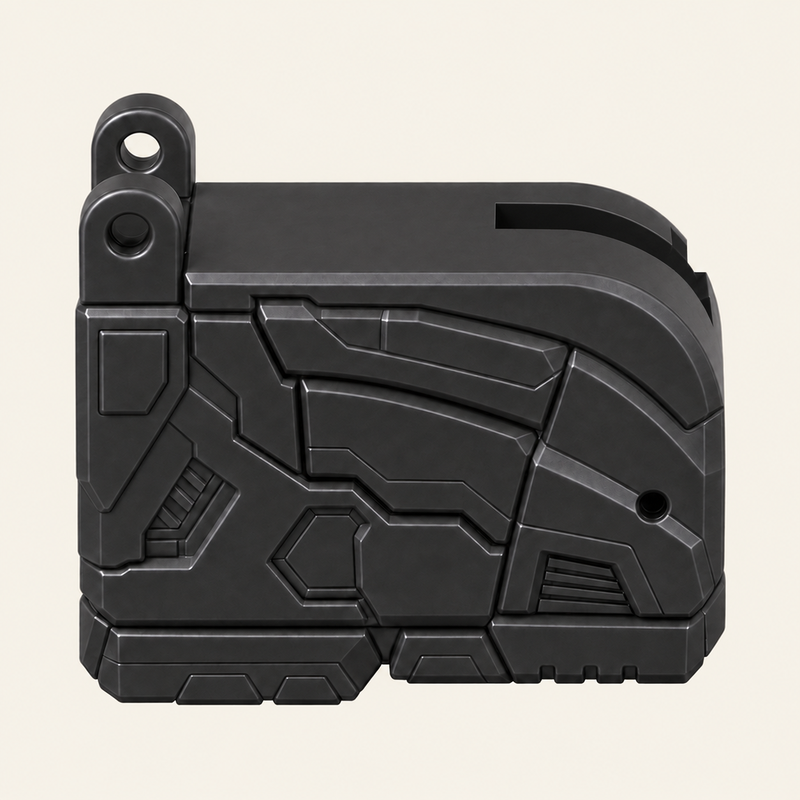
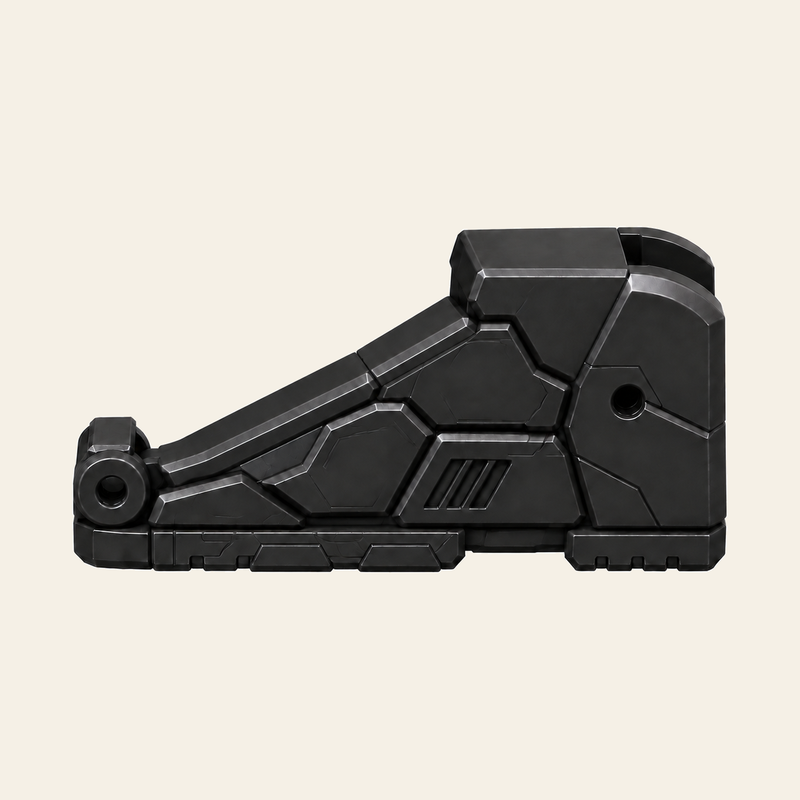
toys-spec/racer-mecha: wedge boot with the rear-wing plate on its toe slope, longer wing plate, detailed fist

diff --git a/toys-spec/racer-mecha/model.py b/toys-spec/racer-mecha/model.py
@@ -16,7 +16,7 @@ pair itself (arm shell / torso, thigh / torso), which the v02 model skipped.
     uv run --with shapely --with numpy python model.py > checks.txt
 """
 import math, itertools
-from shapely.geometry import box as sbox, Point
+from shapely.geometry import box as sbox, Point, Polygon
 from shapely.affinity import rotate, translate
 from shapely.ops import unary_union
 
@@ -82,16 +82,29 @@ P["thigh#1"] = (B(7.5, 25.5, -12, 7, 108.5, 135.75)
 P["shin#1"] = (B(7, 34.5, -12.5, 9.5, 32, 54.25) + B(7.5, 29.5, -12.5, 9.5, 54.25, 88.75) + B(10.5, 22.5, -9, 4, 88.75, 114.1) + B(10.5, 22.5, -7.5, 2.5, 114.1, 116)   # post, top edges bevelled 1.5
                + B(7.5, 25.5, -14.25, -12.5, 88.75, 116) + CX(29.5, 34.5, 2.5, 76, 4.75)
                + B(14, 28, -0.25, 9.25, 14.75, 32) + CX(14, 28, 4.5, 14.75, 4.75))
-# ---- boot: long foot set outboard of the shin, X 8 to 40 (16 apart); slot for the ankle tongue
-P["boot#1"] = (B(8, 40, -36.25, 4.5, 0, 31.5) + B(8, 40, 4.5, 13.75, 0, 14.75)
-               + CX(8, 40, 4.5, 14.75, 9.25)                              # heel top rounded R9.25 about the ankle
-               + B(8, 11.5, -36.25, -32, 31.5, 40) + CX(8, 11.5, -32, 35.75, 4.25)
-               + B(36.5, 40, -36.25, -32, 31.5, 40) + CX(36.5, 40, -32, 35.75, 4.25)   # wing-hinge lugs
-               + CUT(11.5, 36.5, -36.25, -16.5, 31, 31.5) + CUT(8, 40, -27.75, -16.5, 31, 31.5)   # instep 0.5 under the wing
-               + CUT(13.5, 28.5, -0.75, 14.25, 9.5, 32))                  # tongue slot
-# ---- rear wing half: knuckle between the toe lugs, plate on the instep, blade from 0.75 off the centre line to the boot's outer side
-P["wing#1"] = (CX(12, 36, -32, 35.75, 4.25) + B(12, 36, -32, -17, 31.5, 35)
-               + B(0.75, 40, -20.5, -17, 31.5, 43.5))
+# ---- v5 boot (owner 2026-10-17, "cách 2"): a wedge as in the overall image. The rear-wing plate lies on the toe slope,
+#      its hinge low at the toe; the car's rear wing keeps its height (hinge Z + plate length = 50.75).
+ZH, TH = 12.0, 30.0                      # wing hinge height and the plate's slope, degrees
+LP = 50.75 - ZH                          # hinge centre to the blade's back face, along the plate
+_c, _s = math.cos(math.radians(TH)), math.sin(math.radians(TH))
+def _w(y, z): return (y * _c - z * _s, y * _s + z * _c)      # flat wing frame -> robot pose, relative to the hinge
+_zc = (32 - ZH - LP * _s) / _c           # the blade leans forward; its back face at the cuff's bottom (Z 32)
+YH = -46.5                               # contract value; the blade's back face clears the cuff's front-bottom edge
+YH_MAX = -12.5 - 0.5 / _c - _w(LP, _zc)[0] # the hinge furthest back that keeps 0.5 square to that face
+def _H(y, z): a = _w(y, z); return (YH + a[0], ZH + a[1])
+def POLY(x0, x1, pts): return [("polyx", x0, x1, tuple(pts))]
+def CUTPOLY(x0, x1, pts): return [("cutpolyx", x0, x1, tuple(pts))]
+# blade back face offset 0.5, up to the boot top Z 31.5
+_k = (31.5 - _H(LP + 0.5, -4.75)[1]) / _c
+_heel = [(4.5 + 16.75 * math.cos(math.radians(a)), 14.75 + 16.75 * math.sin(math.radians(a))) for a in range(90, 56, -4)] + [(13.75, 28.71)]
+BOOT_PROFILE = ([(YH - 4.25, 0), (13.75, 0)] + _heel[::-1] + [(4.5, 31.5), _H(LP + 0.5, -4.75 + _k), _H(LP + 0.5, -4.75), _H(0, -4.75), (YH - 4.25, ZH)])
+P["boot#1"] = (POLY(8, 40, BOOT_PROFILE) + CX(8, 11.5, YH, ZH, 4.25) + CX(36.5, 40, YH, ZH, 4.25)   # lugs rounded about the hinge
+               + CUTX(11.5, 36.5, YH, ZH, 4.75)                                                    # knuckle clearance
+               + CUT(13.5, 28.5, -0.75, 14.25, 9.5, 32))                                          # tongue slot
+# ---- rear wing half: knuckle between the toe lugs, plate on the slope, blade square to the plate
+P["wing#1"] = (CX(12, 36, YH, ZH, 4.25)
+               + POLY(12, 36, [_H(0, -4.25), _H(LP, -4.25), _H(LP, -0.75), _H(0, -0.75)])
+               + POLY(0.75, 40, [_H(LP - 3.5, -4.25), _H(LP, -4.25), _H(LP, 7.75), _H(LP - 3.5, 7.75)]))
 P["front-wheel#1"] = CX(43.5, 59.5, 3.5, 228.25, 19.5)
 P["rear-wheel#1"] = CX(35, 47, 2.5, 76, 20.5)
 
@@ -107,6 +120,8 @@ def section(prims, x):
             elif p[0] == "cylx": polys.append(Point(p[3], p[4]).buffer(p[5], 48))
             elif p[0] == "cut": cuts.append(sbox(p[3], p[5], p[4], p[6]))
             elif p[0] == "cutx": cuts.append(Point(p[3], p[4]).buffer(p[5], 48))
+            elif p[0] == "polyx": polys.append(Polygon(p[3]))
+            elif p[0] == "cutpolyx": cuts.append(Polygon(p[3]))
     return unary_union(polys).difference(unary_union(cuts))
 
 def xr(prims):
@@ -115,7 +130,7 @@ def xr(prims):
 
 # ---- the transformation, robot -> car; ("t", (dy, dz)), ("r", (y, z), deg), ("rA"/"rB", None, deg)
 ANKLE = (4.5, 14.75)
-HINGE_A = (-32, 35.75)     # boot frame, robot pose
+HINGE_A = (YH, ZH)         # boot frame, robot pose
 SLIDE = 19.25
 HEAD = 26.5
 STAGES = [
@@ -124,7 +139,7 @@ STAGES = [
     ("forearms fold 180 into the shells", {f"forearm{s}": [("r", (-2.5, 140), 180)] for s in ("#1", "#2")}),
     ("boots fold 90 at the ankles", {f"{p}{s}": [("r", ANKLE, 90)] for s in ("#1", "#2") for p in ("boot", "wing")}),
     ("shins slide 19.25 up into the thighs", {f"{p}{s}": [("t", (0, SLIDE))] for s in ("#1", "#2") for p in ("shin", "boot", "wing", "rear-wheel")}),
-    ("rear-wing halves stand 90 on hinge A", {f"wing{s}": [("rA", None, 90)] for s in ("#1", "#2")}),
+    ("rear-wing halves stand on hinge A", {f"wing{s}": [("rA", None, 90 - TH)] for s in ("#1", "#2")}),
 ]
 
 def rot_pt(pt, origin, deg):
@@ -271,7 +286,8 @@ def report_balance():
             s = section(P[n], lo + (hi - lo) * (i + 0.5) / 12)
             if not s.is_empty:
                 a = s.area * (hi - lo) / 12; m += a; cy += a * s.centroid.x
-    print(f"Robot balance: centre of mass Y {cy / m:.1f}; boots stand on Y -36.25 (toe) .. 13.75 (heel)")
+    print(f"Robot balance: centre of mass Y {cy / m:.1f}; boots stand on Y {YH - 4.25:.2f} (toe) .. 13.75 (heel)")
+    print(f"Hinge Y may be at most {YH_MAX:.2f}. Wing hinge Y {YH:.2f}, Z {ZH}; plate {LP} at {TH} deg; blade top Z {_H(LP, 7.75)[1]:.2f}, foot Z {_H(LP, -4.25)[1]:.2f}; boot length {13.75 - YH + 4.25:.2f}")
 
 if __name__ == "__main__":
     report_static()

diff --git a/toys-spec/racer-mecha/CONTRACT.md b/toys-spec/racer-mecha/CONTRACT.md
@@ -2,7 +2,7 @@
 
 A heroic robot in detailed toy armour, 250 mm to the top of its helmet, that
 transforms by hand, with no part removed, into an open-wheel Formula racing
-car 346.2 mm long on four wheels: the car stood up on its tail and opened out.
+car 360.75 mm long on four wheels: the car stood up on its tail and opened out.
 
 Inventor: `rowan-vale`.
 
@@ -22,7 +22,7 @@ figure's left, front is -Y, Z up from the desk; the figure is centred on X 0.
 **Display Pose: robot.** Standing upright on both boots, arms hanging
 straight at the sides, legs straight and drawn out to full length, head
 raised, nose lying down the back, wing halves folded on the toes. Envelope
-126 (X) x 68.75 (Y, -36.25 to 32.5) x 250 (Z). Landmarks: boots 0 to 31.5,
+126 (X) x 83.25 (Y, -50.75 to 32.5) x 250 (Z). Landmarks: boots 0 to 31.5,
 ankle pins 14.75, shin cuff 32 to 54.25, shin block 54.25 to 88.75, rear wheel
 axles 76, knee guard over the slide post 88.75 to 116, thigh 108.5 to 138.75,
 hip pins 145, torso 141.25 to 229.5, halo 170 to 216.25 round the cockpit
@@ -32,7 +32,7 @@ hip pins 145, torso 141.25 to 229.5, halo 170 to 216.25 round the cockpit
 to 145.
 
 **Car pose.** In assembly
-coordinates the car stands on its tail: its length runs along Z (-10.2 to
+coordinates the car stands on its tail: its length runs along Z (-24.75 to
 336), its floor faces +Y and its top -Y; laid down on its floor it is the
 car R03 and R05 give.
 
@@ -124,10 +124,11 @@ shoulder bore runs along X into the top block from its inboard face at Y
 
 **Forearm.** A black closed fist 20 wide (X 40 to 60) x 15 deep (Y -10 to
 5), Z 102.75 to 140, ending at the top in a wrist knuckle rounded R7.5 about
-the elbow axis Y -2.5, Z 140; under the knuckle a wrist guard down to Z 120,
-then four finger blocks split by three vertical grooves and crossed by one
-knuckle groove, and a thumb block on the inboard side. Prints
-on its outboard face.
+the elbow axis Y -2.5, Z 140; under the knuckle a wrist guard down to Z 120
+with a raised V plate 0.75 proud. Below it, across the front, a thumb 2.8
+wide wrapping the inboard corner and four fingers 3.5 wide, split by grooves
+0.8 wide and 2 deep; each finger crossed by a knuckle groove at Z 111, its tip
+rounded R2 at the bottom. Prints on its outboard face.
 
 **Thigh.** A sleeve 18 wide (X 7.5 to 25.5) x 19 deep (Y -12 to 7), Z 108.5
 to 135.75, open at the bottom: its cavity X 10 to 23, Y -9.5 to 4.5, up to Z
@@ -156,23 +157,27 @@ the rear wheel axis Y 2.5, Z 76. Below the cuff the ankle tongue, 14 wide (X
 14 to 28) x 9.5 deep (Y -0.25 to 9.25), down to a round end R4.75 about the
 ankle axis Y 4.5, Z 14.75. Prints upside down on the post's top face (Z 116).
 
-**Boot.** A long foot 32 wide (X 8 to 40), set outboard of the shin, Y
--36.25 to 13.75, Z 0 to 31.5, pointing forward (R10). Behind the ankle axis its top is
-rounded R9.25 about the axis (Y 4.5, Z 14.75) down to the heel face at Y
-13.75. A slot for the shin's tongue, X 13.5 to 28.5, Y -0.75 to the heel, down
-to Z 9.5, open at the top and the heel. The ankle bores run along X through
-the slot's side walls on the axis. The instep in front of the shin is a flat
-at Z 31 from the toe to Y -16.5, where the wing lies; at the toe two lugs 3.5
-thick (X 8 to 11.5 and 36.5 to 40), Y -36.25 to -32, rise to Z 40, rounded
-R4.25 about the wing hinge axis Y -32, Z 35.75. A sole band 4 tall with tread
+**Boot.** A long wedge foot 32 wide (X 8 to 40), set outboard of the shin, Y
+-50.75 to 13.75, Z 0 to 31.5, pointing forward (R10). Behind the ankle axis its top is
+rounded R16.75 about the axis (Y 4.5, Z 14.75) down to the heel face at Y
+13.75, Z 28.7. In front of the axis the top is flat at Z 31.5 to Y -12.45;
+a face undercut 30 degrees from vertical drops back to Y -10.1, Z 27.5
+behind the blade, and from there the toe slope, 0.5 under the wing plate,
+falls forward at 30 degrees to Y -44.1, Z 7.9. The toe
+face at Y -50.75 is 12 tall. At the toe two lugs 3.5 thick (X 8 to 11.5 and
+36.5 to 40) are rounded R4.25 about the wing hinge axis Y -46.5, Z 12 and rise
+to Z 16.25; between them an R4.75 clearance round the knuckle. A slot for the shin's tongue, X 13.5 to 28.5, Y -0.75 to the heel,
+down to Z 9.5, open at the top and the heel. The ankle bores run along X
+through the slot's side walls on the axis. A sole band 4 tall with tread
 notches round it; a toe plate on the toe face. Prints on its sole.
 
-**Wing.** One half of the rear wing, a single part. A knuckle Ø8.5 x 24 (X 12
-to 36) on the wing hinge axis (Y -32, Z 35.75); a plate 24 wide (X 12 to 36) x
-3.5 thick (Z 31.5 to 35) running from the knuckle to Y -17; and at the
-plate's far end the blade, 39.25 wide (X 0.75 to 40) x 3.5 (Y -20.5 to -17) x
-12 tall (Z 31.5 to 43.5), standing up 4.5 in front of the shin and reaching
-inboard past the boot to 1.5 from the other blade. Its outer 3 (X 37 to 40) is
+**Wing.** One rear-wing half. A knuckle Ø8.5 x 24 (X 12
+to 36) on the wing hinge axis (Y -46.5, Z 12); a plate 24 wide (X 12 to 36) x
+3.5 thick, its underside tangent to the knuckle, running 38.75 from the axis
+to the blade's back face; and at the plate's far end the blade, 39.25 wide (X
+0.75 to 40) x 3.5 x 12 tall, square to the plate on its top side and reaching
+inboard past the boot to 1.5 from the other blade. Folded, the blade leans forward 30
+degrees, Z 27.7 to 38.1. Its outer 3 (X 37 to 40) is
 a flush black endplate cap with a 1 x 2.5 slot front to back; a white gurney
 lip 1 tall tops its front face on the outline, its underside rising at 52
 degrees, the face below sunk 0.6 as a curved main plane. Prints on its flat underside (Z 31.5).
@@ -206,8 +211,9 @@ From robot to car, in this order (reverse for car to robot):
 4. Fold each boot 90 degrees at the ankle (+90 about +X): the toe points
    down, the sole faces the back.
 5. Push each shin 19.25 up into its thigh: the slide post fills the sleeve.
-6. Stand each wing half up 90 degrees on its hinge (+90 about +X): its
-   plate rises from the boot and its blade points rearward; the two blades
+6. Stand each wing half up 60 degrees on its hinge (+60 about +X), off the
+   toe slope until square to the boot's top: its plate rises from the toe and
+   its blade points rearward; the two blades
    meet at the centre line, 1.5 apart.
 7. Lay the car down on its back, on its wheels.
 
@@ -227,7 +233,7 @@ the stance named above. Every point, chisel, keel and V underside ends in a
 flat land at least 0.8 mm across (one print minimum at a 0.4 mm nozzle). A
 drawn detail under the print minimums is enlarged to the minimum; when the
 enlarged detail does not fit its spot, it is left out, and this contract
-names it. Panel lines and finger grooves are engraved 0.6 wide and 0.5 deep, 1.6 apart
+names it. Panel lines are engraved 0.6 wide and 0.5 deep, 1.6 apart
 at least; a vent is such slits at a 2.2 pitch, as many as fit. Every chamfer, bevel, gusset, arch, wedge and teardrop
 is designed at most 38 degrees from vertical (a 52 degree rise).
 
@@ -257,7 +263,7 @@ to the hip slot's bottom, and beside the neck post's 3.4 slot; 2.95 or 3.2
 round an R4.5 or R4.75 tongue's Ø3.1 bore. The floors stay below these: the
 torso and the boot 1.1, the nose and the wing 0.95, the thigh and the shin
 1.4, the head 1.9. The robot
-stands unsupported: its centre of mass lies at Y -1.6, 34.65 behind the toes
+stands unsupported: its centre of mass lies at Y -1.6, 49.15 behind the toes
 and 15.35 ahead of the heels.
 
 ```design-contract
@@ -295,7 +301,7 @@ and 15.35 ahead of the heels.
     {"file":"ref-07-thigh.png","shows":"geometry:thigh","camera":[-75,15]},
     {"file":"ref-08-shin.png","shows":"geometry:shin","camera":[-90,0]},
     {"file":"ref-09-boot.png","shows":"geometry:boot","camera":[0,15]},
-    {"file":"ref-10-wing.png","shows":"geometry:wing","camera":[-45,30]},
+    {"file":"ref-10-wing.png","shows":"geometry:wing","camera":[-45,0]},
     {"file":"ref-11-front-wheel.png","shows":"geometry:front-wheel","camera":[0,15]},
     {"file":"ref-12-rear-wheel.png","shows":"geometry:rear-wheel","camera":[-30,15]}
   ],
@@ -307,33 +313,33 @@ and 15.35 ahead of the heels.
     {"id":"forearm","name":"Fist","count":2,"extents_mm":[20,15,44.75],"wall_min_mm":3.0},
     {"id":"thigh","name":"Thigh sleeve","count":2,"extents_mm":[18,19,41],"wall_min_mm":1.4},
     {"id":"shin","name":"Shin and slide post","count":2,"extents_mm":[27.5,23.75,106],"wall_min_mm":1.4},
-    {"id":"boot","name":"Boot","count":2,"extents_mm":[32,50,40],"wall_min_mm":1.1},
-    {"id":"wing","name":"Rear-wing half","count":2,"extents_mm":[39.25,19.25,12],"wall_min_mm":0.95},
+    {"id":"boot","name":"Boot","count":2,"extents_mm":[32,64.5,31.5],"wall_min_mm":1.1},
+    {"id":"wing","name":"Rear-wing half","count":2,"extents_mm":[39.25,43,12],"wall_min_mm":0.95},
     {"id":"front-wheel","name":"Front wheel","count":2,"extents_mm":[39,39,16],"wall_min_mm":2.0},
     {"id":"rear-wheel","name":"Rear wheel","count":2,"extents_mm":[41,41,12],"wall_min_mm":2.0}
   ],
   "requirements":[
-    {"id":"R01","scope":"assembly","text":"In the Display Pose the robot stands upright on both boots, its helmet top at Z 250, arms hanging straight 2 out from the torso, every part dressed in layered, faceted armour plates with bevelled corners, not blocks: the cockpit opening ringed by the closed red halo sits in the middle of the broad black chest from Z 170 to 216.25, a shoulder tower juts over each arm with a front wheel on its outer face at Z 228.25, a rear wheel on the outer side of each calf at Z 76, a red knee guard runs up from each shin over the foot of its thigh from Z 88.75 to 116, and each boot carries a folded wing half whose red blade stands in front of the shin."},
+    {"id":"R01","scope":"assembly","text":"In the Display Pose the robot stands upright on both boots, its helmet top at Z 250, arms hanging straight 2 out from the torso, every part dressed in layered, faceted armour plates with bevelled corners, not blocks: the cockpit opening ringed by the closed red halo sits in the middle of the broad black chest from Z 170 to 216.25, a shoulder tower juts over each arm with a front wheel on its outer face at Z 228.25, a rear wheel on the outer side of each calf at Z 76, a red knee guard runs up from each shin over the foot of its thigh from Z 88.75 to 116, and each wedge boot carries a folded wing half lying on its toe slope, whose red blade leans forward in front of the shin."},
     {"id":"R02","scope":"assembly","text":"From behind, the nose lies down the middle of the robot's back from its hinge at Z 232, its front wing 84 wide across the back of the thighs from Z 128 to 145, and nothing else rises behind the head."},
-    {"id":"R03","scope":"assembly","text":"In the car pose the toy is an open-wheel Formula car 346.2 mm long, 126 wide and 54.5 tall to the rear wing, lying on the robot's back: nose cone and front wing ahead of the front wheels, the cockpit and halo on top, the arm shells as front sidepods, the legs side by side as the rear body, the boots as the tail, and the two wing halves standing on the boots as the rear wing, their blades meeting at the centre line."},
+    {"id":"R03","scope":"assembly","text":"In the car pose the toy is an open-wheel Formula car 360.75 mm long, 126 wide and 54.5 tall to the rear wing, lying on the robot's back: nose cone and front wing ahead of the front wheels, the cockpit and halo on top, the arm shells as front sidepods, the legs side by side as the rear body, the boots as the tail, and the two wing halves standing on the boots as the rear wing, their blades meeting at the centre line."},
     {"id":"R04","scope":"assembly","text":"The robot becomes the car by seven moves and no part comes off: the head slides 26.5 down into its pocket, the nose flips 180 degrees up over the top of the back, each fist folds 180 degrees into its arm shell, each boot folds 90 degrees at the ankle, each shin slides 19.25 up into its thigh, each wing half stands up 90 degrees on its hinge, and the car is laid on its back."},
     {"id":"R05","scope":"assembly","text":"In the car pose the car rests on all four wheels, the nose knuckle and the torso's hinge cheeks 1.75 mm and every other part at least 3.75 mm above the ground, and each wheel turns freely on its dowel."},
     {"id":"R06","scope":"assembly","text":"Posing ranges in the robot: shoulders 90 degrees forward and 5 back, hips 20 forward and 20 back, each holding its pose by friction; the knees do not bend, the legs slide."},
     {"id":"R07","scope":"assembly","text":"Every moving part keeps at least 0.5 mm from every other part through each transformation move and posing range and in both poses, except at the contacts the Interfaces declare: the head-slide dowel stopping in the neck post's slot, the lowered helmet on the pocket floor, and the knee-slide dowel stopping at its slot ends. Checked with --check-motion true: one sweep per transformation move in at most 10 steps against only the parts it can reach; a skipped, killed or timed-out sweep fails this requirement."},
     {"id":"R08","scope":"assembly","text":"Every purchased-part seat is derived from a catalog STEP file, or from the documented envelope when the catalog search is a recorded miss, and the bill of materials lists exactly 2 dowels 3 x 18, 5 dowels 3 x 20, 5 dowels 3 x 26, 4 dowels 3 x 30, 2 dowels 3 x 32 and 4 push-on caps for 3 mm shafts."},
     {"id":"R09","scope":"assembly","text":"Every joint is built as its Interface text states, each hinge or slide a purchased dowel pressed into a 2.9 mm bore on one side and turning or sliding in a 3.1 mm bore or slot (3.2 for the wheels) on the other, with no glue; each knee-slide slot narrows to 2.8 for 1 mm inside each end so the dowel clicks into the end and holds."},
-    {"id":"R10","scope":"assembly","text":"The robot stands unsupported in the Display Pose: its centre of mass lies over the boots, which span Y -36.25 at the toes to 13.75 at the heels; each foot points forward, its toe 23.75 ahead of the shin's front, and sits outboard of its shin, the boots 16 apart."},
+    {"id":"R10","scope":"assembly","text":"The robot stands unsupported in the Display Pose: its centre of mass lies over the boots, which span Y -50.75 at the toes to 13.75 at the heels; each foot points forward, its toe 38.25 ahead of the shin's front, and sits outboard of its shin, the boots 16 apart."},
     {"id":"R11","scope":"geometry:torso","text":"A 70 x 31.5 black core in layered, faceted armour plates, its front, sides and back broken by panel lines, its chest corners bevelled 2 to 4, vents at a 2.2 slit pitch; two shoulder towers jutting 8 out from its top corners on 52 degree wedge undersides, and between them an open head pocket whose front wall has a 13 wide notch so the neck shows."},
     {"id":"R12","scope":"geometry:torso","text":"On the front a cockpit opening 20 wide, 31.75 tall and 4.25 deep ringed by a closed red halo 30 wide and 46.25 tall standing 8.5 proud, of two 4 wide legs and two 6 thick bars with faceted corner blocks; a 14.5 mm shoulder boss on each side wall; two 8.5 mm nose hinge cheeks at the top of the back."},
     {"id":"R13","scope":"geometry:nose","text":"A red nose cone with a raised centre ridge and angled white livery down each side, faceted into armour plates by panel lines, 18 wide at its root stepping to 12, its root on a hinge knuckle 20 wide; it lies down the robot's back."},
     {"id":"R14","scope":"geometry:nose","text":"At the tip a black front wing 84 wide and 17 tall, a main plane under a flap slat with a 2 x 1.2 slot by each end, and a stepped red endplate 3 wide at each end rising 3.5 above it; the red cone runs on over the wing's outer face to its lower edge, narrowing to 6."},
     {"id":"R15","scope":"geometry:head","text":"A white and red helmet 19 wide and 23 tall with a blue visor band across its front, faceted cheek guards and a raised crest 4 wide along its top centre line, bevelled at 52 degrees, on a neck post 8 wide, 9.75 deep and 36.25 long with a 3.4 wide slot through it from front to back."},
     {"id":"R16","scope":"geometry:arm-shell","text":"A 26 x 22 white arm 72.5 tall, a channel open at the back and the bottom, its top rounded about the shoulder axis, its outer edges bevelled 2 to 4, a panel line splitting upper from lower arm, a red band 11.5 tall round the upper arm with a red tab under it, vents at a 2.2 slit pitch; its front, the bed face, is plated by engraved lines only."},
-    {"id":"R17","scope":"geometry:forearm","text":"A black closed fist 20 wide and 15 deep, ending at the top in a rounded wrist knuckle as wide as the fist, a wrist guard over four finger blocks split by three vertical grooves and crossed by one knuckle groove, a thumb block on its inboard side."},
+    {"id":"R17","scope":"geometry:forearm","text":"A black closed fist 20 wide and 15 deep, ending at the top in a rounded wrist knuckle as wide as the fist, a wrist guard with a raised V plate, then four separate fingers across the front split by grooves 0.8 wide and 2 deep, each with a knuckle groove and a rounded tip, and a thumb wrapping its inboard front corner."},
     {"id":"R18","scope":"geometry:thigh","text":"An 18 x 19 red sleeve 27.25 tall, open at the bottom, whose top steps in as a low gable and rises into a rounded hip tongue 10 wide toward its inboard side, with a 3.2 wide slot along each side wall for 19.25 mm of slide; its front plate bevelled 2 to 4 at its corners and carrying two white chevron panels, its front and outer side layered armour plates with vents at a 2.2 slit pitch."},
     {"id":"R19","scope":"geometry:shin","text":"A red shin: a cuff 27.5 wide and 22.25 tall under a block 22 wide and 34.5 tall, a white zig-zag stripe down the front of both, a black slide post 12 x 13 rising 27.25 above with a red knee guard 18 wide and 1.75 thick in front of it up to the post's top, the block's top sloping down at 52 degrees beside and behind the post, a wheel boss on the outer face and a rounded ankle tongue 14 wide below; layered armour plates with vents at a 2.2 slit pitch, bevelled 2 to 4 where it tapers toward the ankle; the knee guard is plain, too thin for panel lines."},
-    {"id":"R20","scope":"geometry:boot","text":"A black boot 32 wide and 50 long pointing forward, 31.5 tall, its heel top rounded about the ankle, a slot for the shin's tongue open at the top and the heel, and two hinge lugs at the very toe; a toe plate on its toe bevelled 2 to 4, a sole band with tread notches, its sides armour plates with vents at a 2.2 slit pitch."},
-    {"id":"R21","scope":"geometry:wing","text":"A black plate 24 wide and 3.5 thick on an 8.5 mm hinge knuckle, carrying at its far end a red blade 39.25 wide, 12 tall and 3.5 thick standing square to the plate and overhanging it by 11.25 inboard and 4 outboard, its outer 3 a black endplate cap with a 1 x 2.5 slot, a white gurney lip along its top."},
+    {"id":"R20","scope":"geometry:boot","text":"A black wedge boot 32 wide and 64.5 long pointing forward, 31.5 tall behind the toe slope, which falls forward at 30 degrees to a toe face 12 tall, its heel top rounded about the ankle, a slot for the shin's tongue open at the top and the heel, and two hinge lugs at the very toe; a toe plate on its toe bevelled 2 to 4, a sole band with tread notches, its sides layered armour plates with bevelled edges and vents at a 2.2 slit pitch."},
+    {"id":"R21","scope":"geometry:wing","text":"A black plate 24 wide, 3.5 thick and 38.75 long from the axis of an 8.5 mm hinge knuckle, carrying at its far end a red blade 39.25 wide, 12 tall and 3.5 thick standing square to the plate and overhanging it by 11.25 inboard and 4 outboard, its outer 3 a black endplate cap with a 1 x 2.5 slot, a white gurney lip along its top."},
     {"id":"R22","scope":"geometry:front-wheel","text":"A black tyre 39 across and 16 wide with a chevron-grooved tread and a five-spoke rim face on its outer side, the windows between the spokes open through."},
     {"id":"R23","scope":"geometry:rear-wheel","text":"A black tyre 41 across and 12 wide, its plain tread split into segments by panel lines, and a five-spoke rim face on its outer side, the windows between the spokes open through."}
   ],
@@ -348,10 +354,10 @@ and 15.35 ahead of the heels.
     {"id":"hip-2","kind":"coupled","components":["thigh#2","shin#2","boot#2","wing#2","rear-wheel#2","torso","nose"],"text":"Mirror of hip-1: thigh 2's tongue in the torso's -X hip slot on a 3 x 20 dowel along X at Y -2.5, Z 145, turning on a 3.1 bore, with hip-1's clearances.","yielding":"thigh#2","poses":{"steps":10,"movers":[{"component":"thigh#2","rotation":{"axis_point":[0,-2.5,145],"axis_direction":[1,0,0],"start_deg":-20,"end_deg":20}},{"component":"shin#2","rotation":{"axis_point":[0,-2.5,145],"axis_direction":[1,0,0],"start_deg":-20,"end_deg":20}},{"component":"boot#2","rotation":{"axis_point":[0,-2.5,145],"axis_direction":[1,0,0],"start_deg":-20,"end_deg":20}},{"component":"wing#2","rotation":{"axis_point":[0,-2.5,145],"axis_direction":[1,0,0],"start_deg":-20,"end_deg":20}},{"component":"rear-wheel#2","rotation":{"axis_point":[0,-2.5,145],"axis_direction":[1,0,0],"start_deg":-20,"end_deg":20}}]}},
     {"id":"knee-slide-1","kind":"coupled","components":["shin#1","boot#1","wing#1","rear-wheel#1","thigh#1","torso"],"text":"Shin 1's slide post (X 10.5 to 22.5, Y -9 to 4) runs in thigh 1's sleeve (cavity X 10 to 23, Y -9.5 to 4.5, ceiling Z 135.75), 0.5 clear all round, the post's top edges and the ceiling's edges bevelled alike, 1.5 at 52 degrees, the knee guard sliding 0.5 in front of the thigh's front face. A 3 x 18 dowel pressed along X through the post at Y -2.5 runs in the 3.2 wide slots of the thigh's two side walls from Z 112.25 (robot, full length) to Z 131.5 (car, 19.25 up), each slot narrowed to 2.8 for 1 inside each end so the dowel clicks into the end. At 19.25 up the post's top is 0.5 under the ceiling, the guard's top at Z 135.25, and the shin block's flat top in front of the post 0.5 under the thigh's bottom.","yielding":"shin#1","poses":{"steps":10,"movers":[{"component":"shin#1","translation":{"vector":[0,0,19.25]}},{"component":"boot#1","translation":{"vector":[0,0,19.25]}},{"component":"wing#1","translation":{"vector":[0,0,19.25]}},{"component":"rear-wheel#1","translation":{"vector":[0,0,19.25]}}]}},
     {"id":"knee-slide-2","kind":"coupled","components":["shin#2","boot#2","wing#2","rear-wheel#2","thigh#2","torso"],"text":"Mirror of knee-slide-1: shin 2's post slides 19.25 up into thigh 2's sleeve on a 3 x 18 dowel along X at Y -2.5, in slots from Z 112.25 to 131.5, as in knee-slide-1.","yielding":"shin#2","poses":{"steps":10,"movers":[{"component":"shin#2","translation":{"vector":[0,0,19.25]}},{"component":"boot#2","translation":{"vector":[0,0,19.25]}},{"component":"wing#2","translation":{"vector":[0,0,19.25]}},{"component":"rear-wheel#2","translation":{"vector":[0,0,19.25]}}]}},
-    {"id":"ankle-1","kind":"coupled","components":["boot#1","wing#1","shin#1"],"text":"Shin 1's ankle tongue (X 14 to 28, Y -0.25 to 9.25, round R4.75 about the axis) sits in boot 1's slot (X 13.5 to 28.5, Y -0.75 to the heel, down to Z 9.5); a 3 x 30 dowel pressed along X through the slot's side walls at Y 4.5, Z 14.75 turns it on a 3.1 bore. The boot folds 90 degrees, toe down: its heel top, rounded R9.25 about the axis, and its heel face at Y 13.75 pass and end at least 0.5 under the shin's bottom face (Z 32), and its sole ends 3.75 above the car's ground.","yielding":"boot#1","poses":{"steps":10,"movers":[{"component":"boot#1","rotation":{"axis_point":[0,4.5,14.75],"axis_direction":[1,0,0],"start_deg":0,"end_deg":90}},{"component":"wing#1","rotation":{"axis_point":[0,4.5,14.75],"axis_direction":[1,0,0],"start_deg":0,"end_deg":90}}]}},
+    {"id":"ankle-1","kind":"coupled","components":["boot#1","wing#1","shin#1"],"text":"Shin 1's ankle tongue (X 14 to 28, Y -0.25 to 9.25, round R4.75 about the axis) sits in boot 1's slot (X 13.5 to 28.5, Y -0.75 to the heel, down to Z 9.5); a 3 x 30 dowel pressed along X through the slot's side walls at Y 4.5, Z 14.75 turns it on a 3.1 bore. The boot folds 90 degrees, toe down: its heel top, rounded R16.75 about the axis, and its heel face at Y 13.75 pass and end at least 0.5 under the shin's bottom face (Z 32), and its sole ends 3.75 above the car's ground.","yielding":"boot#1","poses":{"steps":10,"movers":[{"component":"boot#1","rotation":{"axis_point":[0,4.5,14.75],"axis_direction":[1,0,0],"start_deg":0,"end_deg":90}},{"component":"wing#1","rotation":{"axis_point":[0,4.5,14.75],"axis_direction":[1,0,0],"start_deg":0,"end_deg":90}}]}},
     {"id":"ankle-2","kind":"coupled","components":["boot#2","wing#2","shin#2"],"text":"Mirror of ankle-1: shin 2's R4.75 tongue in boot 2's slot on a 3 x 30 dowel along X at Y 4.5, Z 14.75, turning on a 3.1 bore; the boot folds as in ankle-1.","yielding":"boot#2","poses":{"steps":10,"movers":[{"component":"boot#2","rotation":{"axis_point":[0,4.5,14.75],"axis_direction":[1,0,0],"start_deg":0,"end_deg":90}},{"component":"wing#2","rotation":{"axis_point":[0,4.5,14.75],"axis_direction":[1,0,0],"start_deg":0,"end_deg":90}}]}},
-    {"id":"wing-hinge-1","kind":"coupled","components":["wing#1","boot#1","shin#1"],"text":"Wing 1's Ø8.5 knuckle (X 12 to 36) sits between boot 1's two toe lugs (X 8 to 11.5 and 36.5 to 40), 0.5 clear; a 3 x 32 dowel pressed along X into the lugs at Y -32, Z 35.75 turns it on a 3.1 bore. Folded, the plate lies 0.5 above the instep (Z 31) and the blade stands 4.5 in front of the shin. Standing (+90), the plate rises from the toe and the blade points away from the shin; in the car the blades of the two halves meet 1.5 apart at the centre line.","yielding":"wing#1","poses":{"steps":10,"movers":[{"component":"wing#1","rotation":{"axis_point":[0,-32,35.75],"axis_direction":[1,0,0],"start_deg":0,"end_deg":90}}]}},
-    {"id":"wing-hinge-2","kind":"coupled","components":["wing#2","boot#2","shin#2"],"text":"Mirror of wing-hinge-1: wing 2's knuckle between boot 2's toe lugs on a 3 x 32 dowel along X at Y -32, Z 35.75, turning on a 3.1 bore.","yielding":"wing#2","poses":{"steps":10,"movers":[{"component":"wing#2","rotation":{"axis_point":[0,-32,35.75],"axis_direction":[1,0,0],"start_deg":0,"end_deg":90}}]}},
+    {"id":"wing-hinge-1","kind":"coupled","components":["wing#1","boot#1","shin#1"],"text":"Wing 1's Ø8.5 knuckle (X 12 to 36) sits between boot 1's two toe lugs (X 8 to 11.5 and 36.5 to 40), 0.5 clear; a 3 x 32 dowel pressed along X into the lugs at Y -46.5, Z 12 turns it on a 3.1 bore. Folded, the plate lies 0.5 above the toe slope at 30 degrees and the blade's back face passes 0.5 clear of the shin cuff's front bottom edge (Y -12.5, Z 32). Standing (+60), square to the boot's top, the plate rises from the toe and the blade points away from the shin; in the car the blades of the two halves meet 1.5 apart at the centre line.","yielding":"wing#1","poses":{"steps":10,"movers":[{"component":"wing#1","rotation":{"axis_point":[0,-46.5,12],"axis_direction":[1,0,0],"start_deg":0,"end_deg":60}}]}},
+    {"id":"wing-hinge-2","kind":"coupled","components":["wing#2","boot#2","shin#2"],"text":"Mirror of wing-hinge-1: wing 2's knuckle between boot 2's toe lugs on a 3 x 32 dowel along X at Y -46.5, Z 12, turning on a 3.1 bore.","yielding":"wing#2","poses":{"steps":10,"movers":[{"component":"wing#2","rotation":{"axis_point":[0,-46.5,12],"axis_direction":[1,0,0],"start_deg":0,"end_deg":60}}]}},
     {"id":"front-wheels","kind":"static","components":["front-wheel#1","front-wheel#2","torso"],"text":"Each front wheel turns on a 3 x 30 dowel pressed 12 deep into the outer face of a shoulder tower on the axis Y 3.5, Z 228.25, the wheel's inner face 0.5 outside the tower (X 43.5 to 59.5 and -43.5 to -59.5), held by a push-on cap."},
     {"id":"rear-wheels","kind":"static","components":["rear-wheel#1","rear-wheel#2","shin#1","shin#2"],"text":"Each rear wheel turns on a 3 x 26 dowel pressed 12 deep into its shin's Ø9.5 boss and block on the axis Y 2.5, Z 76, the wheel's inner face 0.5 outside the boss (X 35 to 47 and -35 to -47), held by a push-on cap."}
   ]
